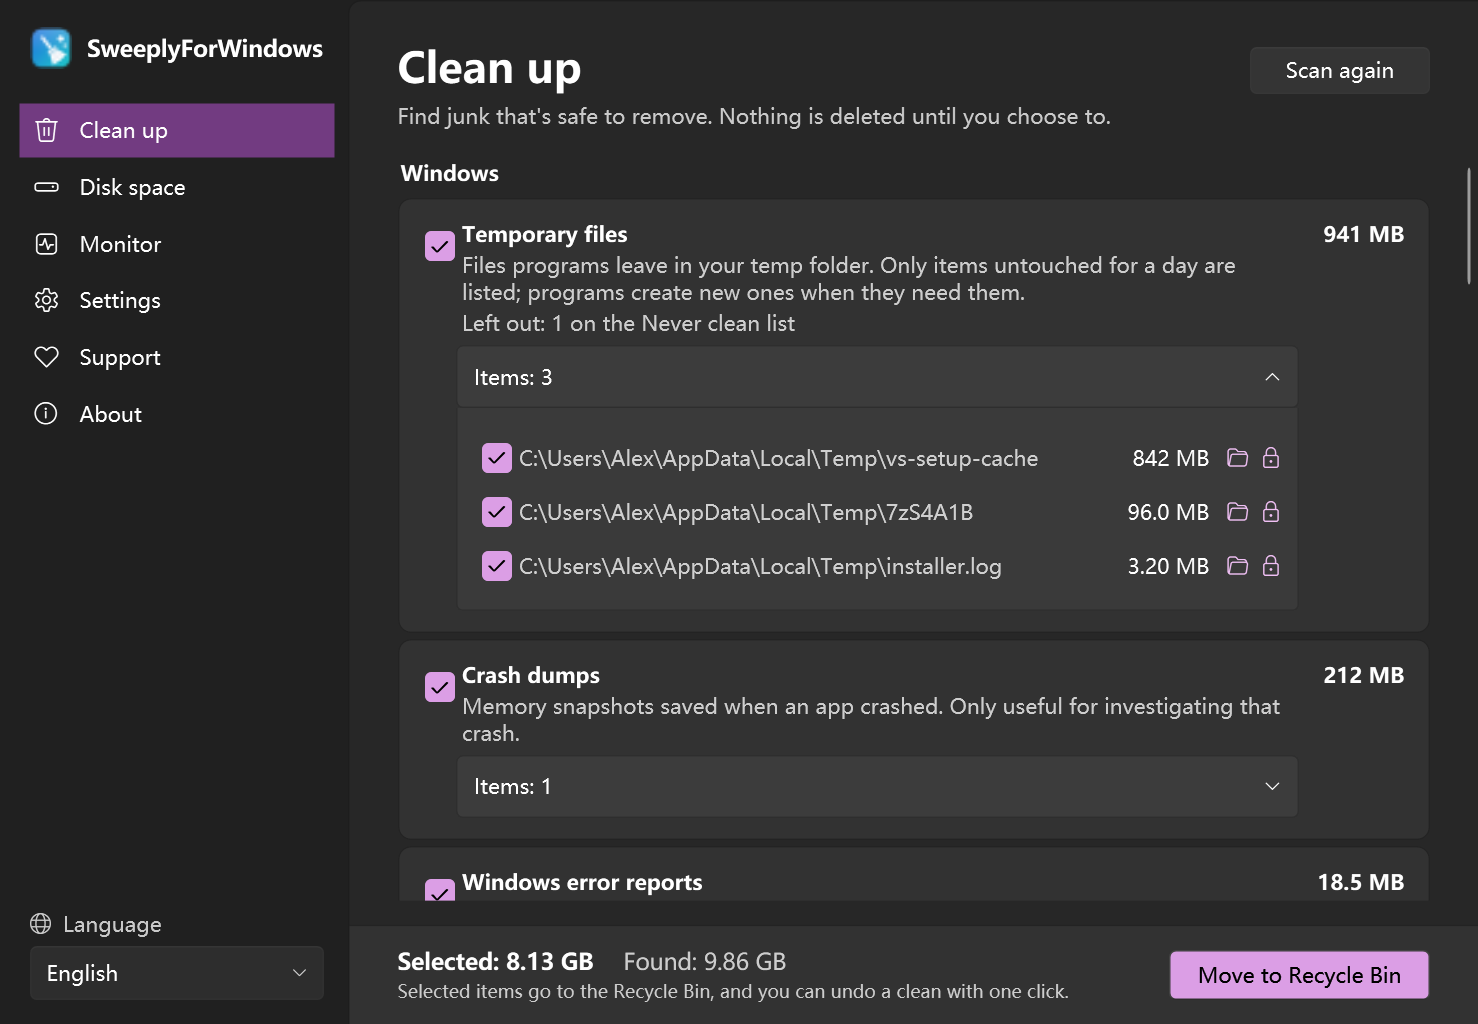
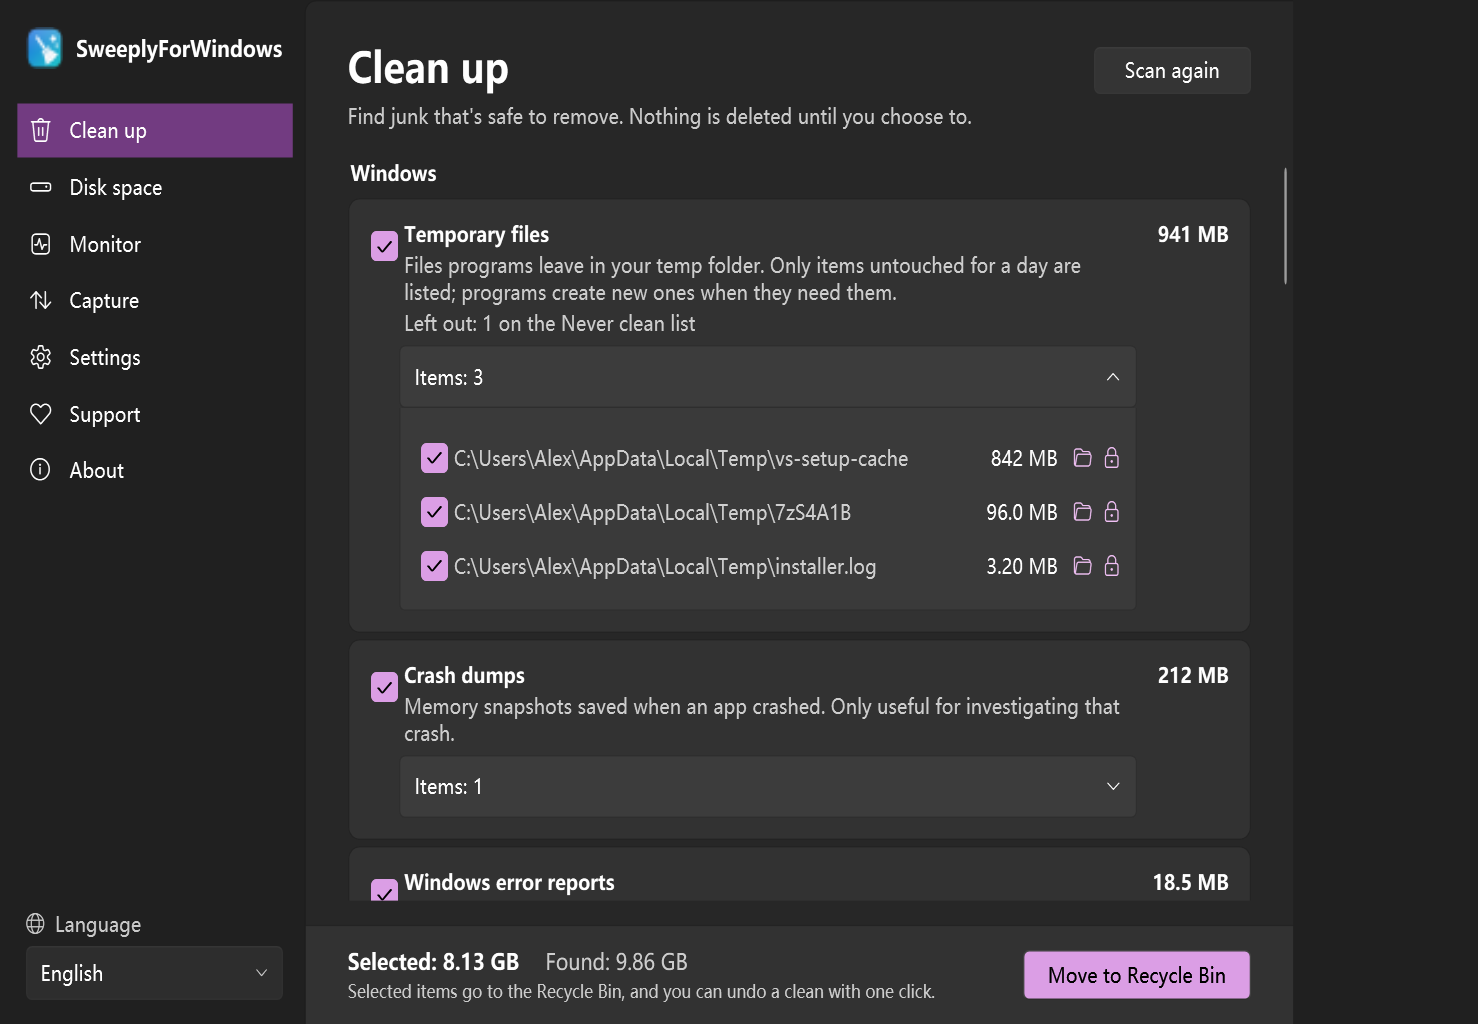
README: Capture, and screenshots for 0.5
- A "See what goes over the network" section (English and Chinese):
  capturing with Windows' own packet capture or Npcap, the program of
  each packet, opening and saving .pcapng, display filters, statistics
  and Follow stream, and what it doesn't see (another PC's traffic, the
  loopback without Npcap, IPv6 on a TUN adapter, what HTTPS hides).
- Monitor has five parts now: Connections.
- Status line says 0.5 and lists Capture.
- All screenshots made again from the app's snapshot mode, so the
  Monitor ones show the new temperature and service names.

diff --git a/README.md b/README.md
@@ -23,9 +23,9 @@ shows you exactly what they are, and never deletes anything until you choose to.
   <img src="docs/screenshots/clean-en-light.png" width="760" alt="SweeplyForWindows showing cleanup categories and their sizes">
 </p>
 
-> **Status: preview (0.4).** Cleaning, undo, the "Never clean" list, the folder right-click menu,
-> clean-up reminders, Clean up every day, Disk space, the Monitor page, background mode and the
-> activity monitor all work.
+> **Status: preview (0.5).** Cleaning, undo, the "Never clean" list, the folder right-click menu,
+> clean-up reminders, Clean up every day, Disk space, the Monitor page, Capture, background mode and
+> the activity monitor all work.
 
 ## What it finds
 
@@ -107,7 +107,7 @@ Downloads and the other personal folders stay, though what is inside them can go
   <img src="docs/screenshots/monitor-en-light.png" width="760" alt="The Monitor page: CPU, memory, disk, network, GPU and temperature, each with a chart of the last 2 minutes">
 </p>
 
-**Monitor** in the sidebar has four parts:
+**Monitor** in the sidebar has five parts:
 
 - **Performance:** CPU (with its speed right now), memory, disk reads and writes, download and upload,
   GPU and the hottest temperature, each with a chart of the last 2 minutes.
@@ -120,6 +120,9 @@ Downloads and the other personal folders stay, though what is inside them can go
 - **Tools:** ping, trace route, and a scan of the local network that lists the devices on it (one
   ping per address plus Windows' own address lookup, so devices that ignore pings show up too; no
   ports are tried).
+- **Connections:** every TCP and UDP connection with the program behind it (and, for svchost.exe, the
+  services it runs), as TCPView shows them: new ones green for a few seconds, closed ones red, then
+  gone.
 
 <p align="center">
   <img src="docs/screenshots/monitor-hardware-en-light.png" width="760" alt="The Hardware part: temperatures, drive health and configuration">
@@ -129,6 +132,47 @@ Everything is read without administrator rights or a driver, and only while the 
 processor's temperature needs a kernel driver, so it isn't shown. Nothing is saved, and the tools send
 packets only when you start them, only to the addresses you choose. They also say when a proxy in TUN
 mode on this PC is answering in place of the real network.
+
+## See what goes over the network
+
+<p align="center">
+  <img src="docs/screenshots/capture-en-light.png" width="760" alt="The Capture page: the packet list, a packet's details and its bytes, as Wireshark shows them">
+</p>
+
+**Capture** shows network traffic packet by packet, the way Wireshark does: the list, each packet's
+details as a tree (protocol names and fields as in Wireshark, so what you look up matches what you
+see) and its bytes.
+
+- **Start capturing** on one network adapter or on all of them. It uses the packet capture built into
+  Windows, so there is nothing to install; with Npcap installed (Wireshark installs it), it uses Npcap
+  instead. Capturing runs in a small helper, which Windows asks you to allow as administrator each time
+  (it doesn't ask if your account is in the Performance Log Users group); the app itself never runs as
+  administrator. Capturing goes on while other pages are open, until you stop it.
+- **The program of each packet**, from the same table the Connections part of Monitor shows. Wireshark
+  can't tell you that.
+- **Open** .pcapng and .pcap files (or drop one on the page), and **save** as .pcapng, with the
+  programs kept as packet comments, which Wireshark shows.
+- **Display filters**, written as in Wireshark: `dns`, `tcp.port == 443`, `ip.addr == 192.0.2.1`,
+  `http || tls`, `!arp`, and `process.name == "chrome.exe"` for a program. Right-click a field to filter
+  on it, or a packet to see only its conversation.
+- **Statistics:** programs, conversations, endpoints, the protocol hierarchy and trouble
+  (retransmissions, resets, failed lookups…, each with what it means), and traffic over time.
+  Addresses get names from the capture itself: the server name a connection asked for, or a DNS
+  answer.
+- **Follow stream** puts a TCP or UDP conversation back together, each end in its own colour.
+
+<p align="center">
+  <img src="docs/screenshots/capture-stats-en-light.png" width="760" alt="Statistics of a capture: the numbers, traffic over time, the busiest programs and the trouble found">
+</p>
+
+Only this PC's own traffic is captured (no promiscuous or Wi-Fi monitor mode), up to 200,000 packets
+or 256 MB at a time. On Wi-Fi, Windows hands over the Wi-Fi frames themselves, already decrypted, and
+they are shown as such. Without Npcap, traffic on the loopback (127.0.0.1) isn't seen. Windows'
+capture doesn't reach a VPN's or a proxy's TUN adapter (where each program's own traffic goes when one
+is on): there, and wherever Windows' capture can't start, raw sockets capture, which see IPv4 only and
+need administrator rights (the page says so). Nothing is sent
+anywhere: a capture stays on this PC unless you save it. Encrypted traffic (HTTPS) stays encrypted:
+you see who talked to whom, when and how much, not what was said.
 
 ## Safety first
 
